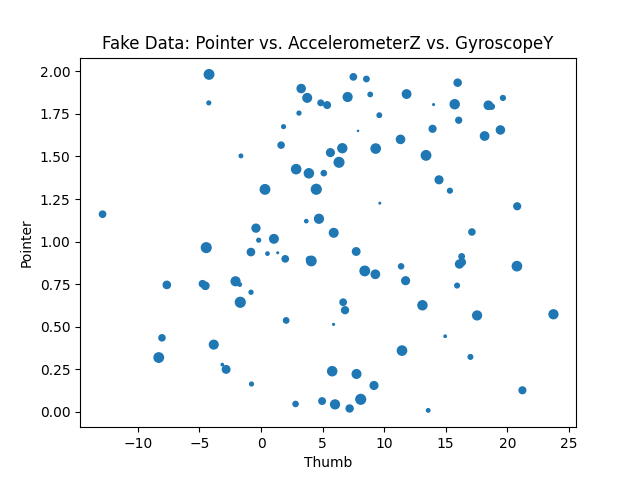
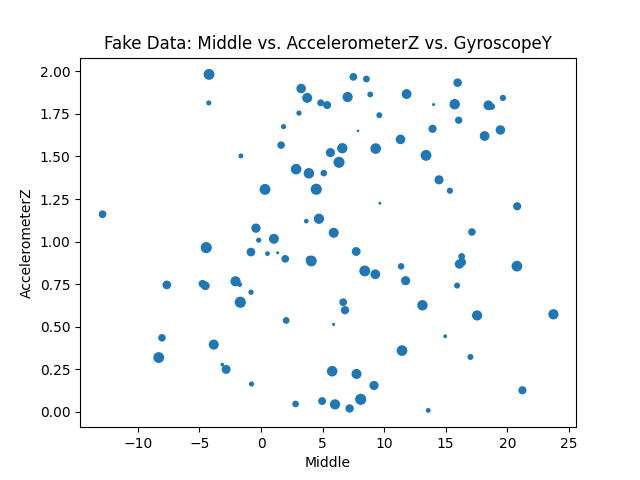
changed some naming

Changed region(s): [[0.1562, 0.0625, 0.875, 0.125], [0.0312, 0.4062, 0.0625, 0.625], [0.4688, 0.9375, 0.5625, 1.0]]

diff --git a/data_analysis/data_analysis.py b/data_analysis/data_analysis.py
@@ -2,8 +2,8 @@ import numpy as np
 import matplotlib.pyplot as plt
 
 
-filename_fake = "fake_data/simulated_train_data.csv"
-filename_real = "real_data/l.npy"
+filename_fake = "../fake_data/simulated_train_data.csv"
+filename_real = "../real_data/l.npy"
 
 fake_data_full = np.genfromtxt(filename_fake, delimiter=" ", skip_header=1, dtype=float)
 fake_data = fake_data_full[1100:1200, :]
@@ -28,30 +28,30 @@ plt.savefig("fake_014.png")
 plt.show()
 
 #2, 8, 10
-plt.xlabel("Thumb")
-plt.ylabel("Pointer")
-plt.title("Real Data: Pointer vs. AccelerometerZ vs. GyroscopeY")
+plt.xlabel("Middle")
+plt.ylabel("AccelerometerZ")
+plt.title("Real Data: Middle vs. AccelerometerZ vs. GyroscopeY")
 plt.scatter(real_data[:, 2], real_data[:, 8], s=real_data[:, 10]*5)
 plt.savefig("real_2810.png")
 plt.show()
 
-plt.xlabel("Thumb")
-plt.ylabel("Pointer")
-plt.title("Fake Data: Pointer vs. AccelerometerZ vs. GyroscopeY")
+plt.xlabel("Middle")
+plt.ylabel("AccelerometerZ")
+plt.title("Fake Data: Middle vs. AccelerometerZ vs. GyroscopeY")
 plt.scatter(fake_data[:, 2], fake_data[:, 8], s=fake_data[:, 10]*5)
 plt.savefig("fake_2810.png")
 plt.show()
 
 # 11, 12, 13
-plt.xlabel("Thumb")
-plt.ylabel("Pointer")
+plt.xlabel("GyroscopeX")
+plt.ylabel("GyroscopeY")
 plt.title("Real Data: Magnetometer")
 plt.scatter(real_data[:, 11], real_data[:, 12], s=real_data[:, 13]*10)
 plt.savefig("real_111213.png")
 plt.show()
 
-plt.xlabel("Thumb")
-plt.ylabel("Pointer")
+plt.xlabel("GyroscopeX")
+plt.ylabel("GyroscopeY")
 plt.title("Fake Data: Magnetometer")
 plt.scatter(fake_data[:, 11], fake_data[:, 12], s=fake_data[:, 13]*10)
 plt.savefig("fake_111213.png")
